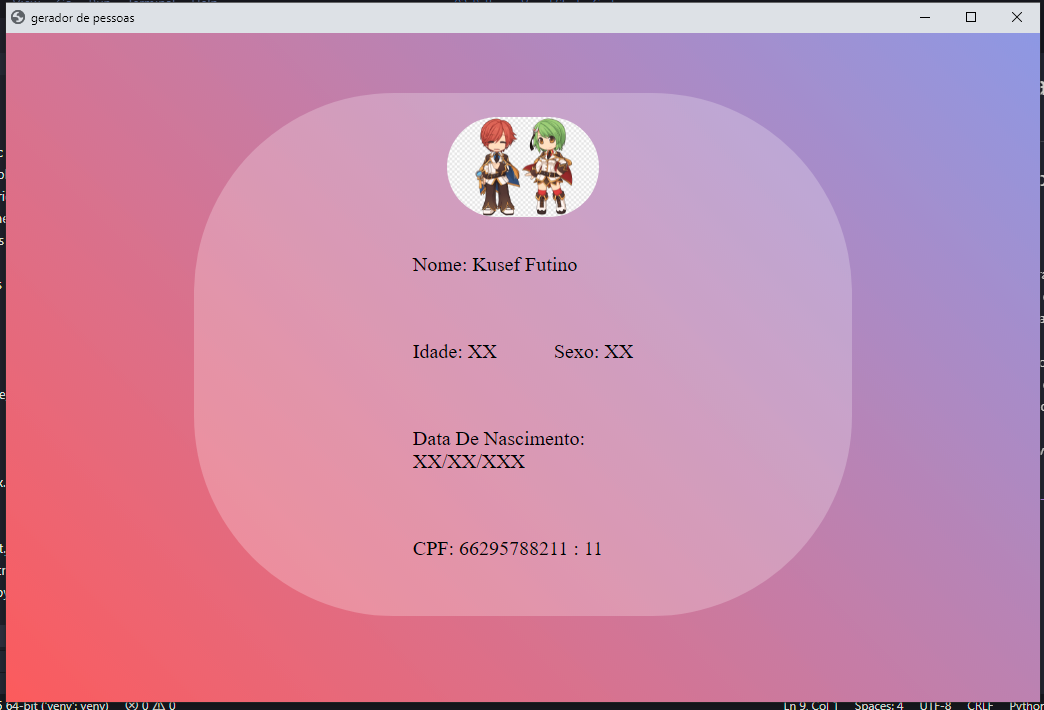
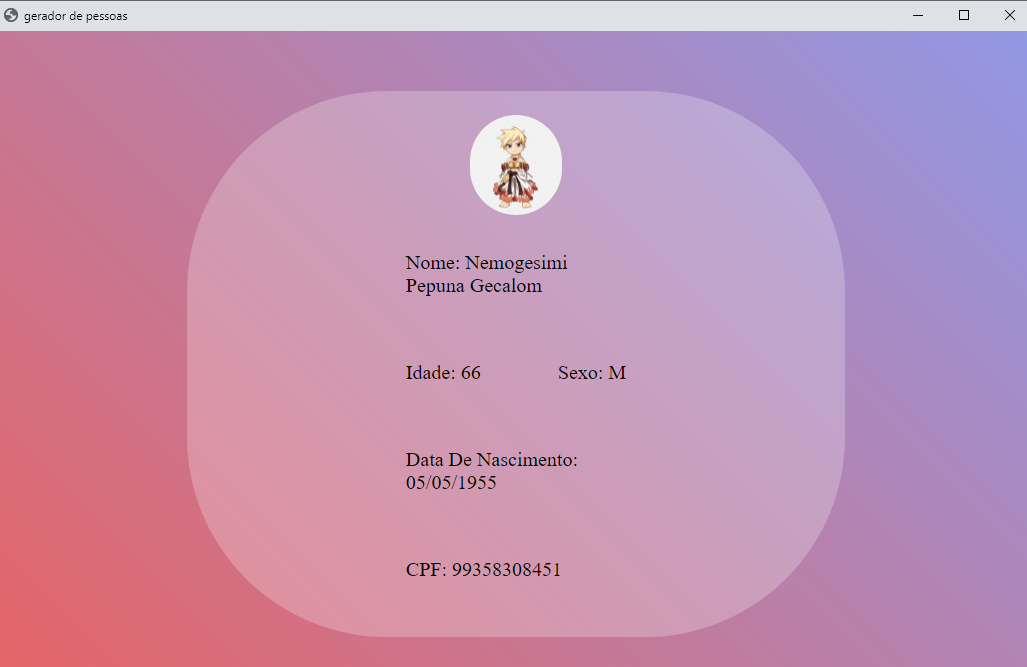
feito a geração de dados indivuais

diff --git a/web/STATIC/JS/script.js b/web/STATIC/JS/script.js
@@ -3,11 +3,32 @@ document.querySelector(".moldura").onclick = function () {
 
       let tamanho = String(valor_cpf).length
       console.log(tamanho)
-      document.querySelector(".cpf").innerHTML = (`${valor_cpf} : ${tamanho}`);
+      document.querySelector(".cpf").innerHTML = valor_cpf;
     })
 
     eel.get_juntarnome()(function(nome){
       
       document.querySelector(".nome").innerHTML = nome;
+    })
+
+    eel.get_idade()(function(idade){
+      console.log(typeof(idade))
+      document.querySelector('.idade').innerHTML = idade[1];
+      document.querySelector('.nascimento').innerHTML = idade[0];
+    })
+
+    eel.get_sexo()(function(sexo){
+      document.querySelector('.sexo').innerHTML = sexo;
+      if(sexo == 'f'){
+        console.log(sexo);
+        let feminino = document.querySelector(".foto");
+        feminino.setAttribute('src', 'STATIC/IMG/f.jpg');
+      }
+      if(sexo == 'm'){
+        console.log(sexo);
+        let masculino = document.querySelector(".foto");
+        masculino.setAttribute('src','STATIC/IMG/m.png');
+      }
+      
     })
   }

diff --git a/web/index.html b/web/index.html
@@ -1,5 +1,5 @@
 <!DOCTYPE html>
-<html lang="en">
+<html lang="pt-br">
 <head>
     <meta charset="UTF-8">
     <meta http-equiv="X-UA-Compatible" content="IE=edge">
@@ -10,12 +10,12 @@
 <body>
    <main>
         <div class="moldura" onclick="">
-                <img src="STATIC/IMG/menu.png" alt="pessoa">
+                <img src="STATIC/IMG/menu.png" alt="pessoa" class="foto">
         </div>
         <section class="dados">
                 <p>nome: <span class="nome">XXXXXX XXXXXX</span></p>
                 <p>idade: <span class="idade"XXXXXX>XX</span></p>
-                <p>sexo: <span class="sexo">XX</span></p>
+                <p>sexo: <span class="sexo">X</span></p>
                 <p>data de nascimento: <span class="nascimento">XX/XX/XXX</span></p>
                 <p>CPF: <span class="cpf">XXX.XXX.XXX-XX</span></p>
         </section>

diff --git a/funcoes.py b/funcoes.py
@@ -1,4 +1,5 @@
 from random import randint as r
+import datetime
 
 def gerador_cpf(estado = 10,  controle = 0, digitos = 0):
     
@@ -83,8 +84,58 @@ def juntar_nomes():
     
     nome_completo = nome_completo.lstrip()#apagar o ultimo espaço
     return nome_completo
+
+
     
-for i in range(60):
-    gerador_cpf()
-    print(f'vez {i}')
+def gerar_nacimento():
+    ano =str(r(1920,2020))
+    mes =str(r(1,12))
+    mes = mes.zfill(2)# preenche com 0, caso só tenha um digito.
+    dia = str(r(1,31))
+    dia = dia.zfill(2)
+    nascimento = f'{dia}/{mes}/{ano}'
+    return nascimento
+    
+
+
+
+
+
+def gerar_idade():
+    """recebe a data de nascimento e calcula a idade.
+
+    Returns:
+        lista: contem lista[0] = data de nascimento
+                      lista[1] = idade
+    """
+    nasceu = gerar_nacimento()   
+    agora = datetime.datetime.now().strftime('%d/%m/%Y')
+    idade = 0
+    idade_info = []
+    idade_info.append(nasceu)
+    if int(nasceu[6:10]) <= int(agora[6:10]):
+        
+        if int(nasceu[3:5]) > int(agora[3:5]) and int(nasceu[6:10]) > int(agora[6:10]):
+                return 'nascimento maior que a data atual: in'
+        
+        elif int(nasceu[3:5]) <= int(agora[3:5]) and int(nasceu[6:10]) < int(agora[6:10]) or  int(nasceu[3:5]) >= int(agora[3:5]) and int(nasceu[6:10]) < int(agora[6:10]) :
+                idade = int(agora[6:10])  -  int(nasceu[6:10])  
+                
+        
+        
+        else:
+        
+                idade = (int(agora[3:5]) + 11)  -  int(nasceu[3:5])
+                idade = f'{idade} meses'
+        
+        idade_info.append(idade)
+        return idade_info
+        
+    return 'nascimento maior que  a data atual'
+
+def gerar_sexo():
+    sexos = ['f','m']
+    escolha = r(0,1)
+    return sexos[escolha]
+
 

diff --git a/main.py b/main.py
@@ -19,6 +19,16 @@ def get_gerador_cpf():
 def get_juntarnome():    
     nome = funcoes.juntar_nomes()
     return nome
+
+@eel.expose
+def get_idade():
+    nascimento = funcoes.gerar_idade()
+    return nascimento
   
+@eel.expose
+def get_sexo():
+    sexo = funcoes.gerar_sexo()
+    return sexo
+
 # Start the index.html file
 eel.start("index.html")

diff --git a/README.md b/README.md
@@ -7,8 +7,8 @@
 
 - [X] criar a interface grafica. 
 - [X] função para gerar os nomes
-- [ ] função para gerar a idade, data de nascimento.
-- [ ] função para gerar o sexo.
+- [X] função para gerar a idade, data de nascimento.
+- [X] função para gerar o sexo.
 - [X] função para gerar o cpf.
 - [ ] gerar um pdf com dada da pessoas
 - [ ] gerar dados massivamente, e exportar como sql.
